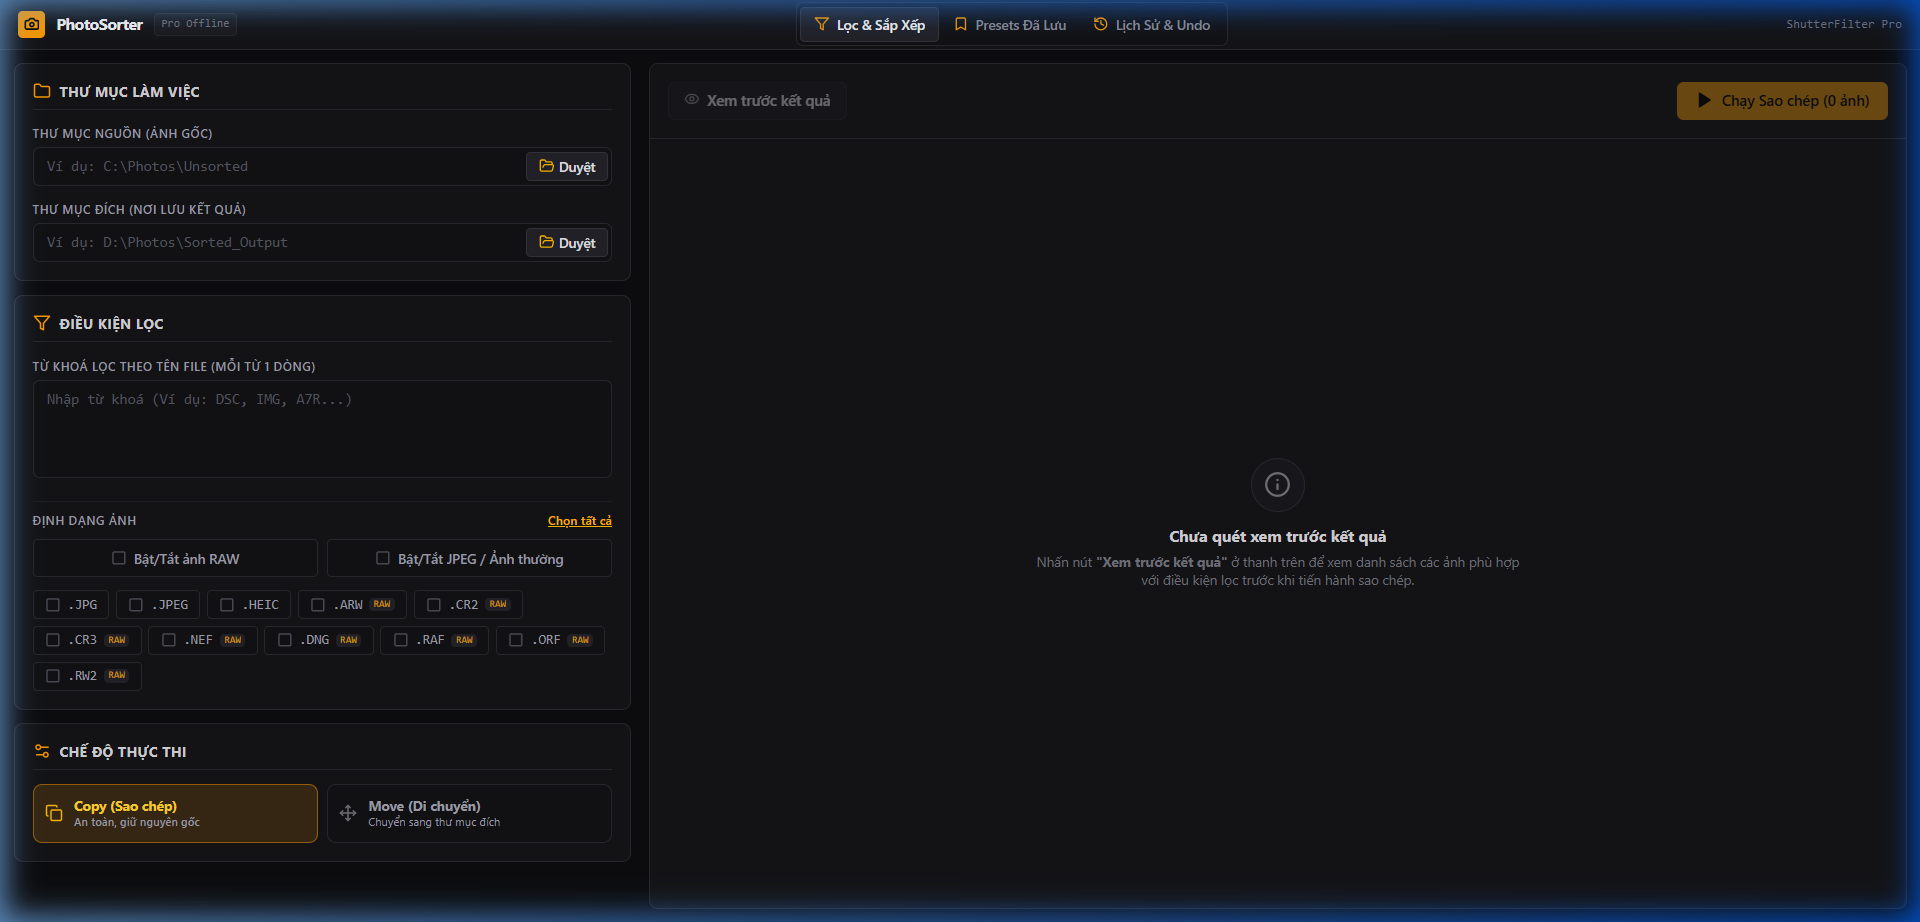
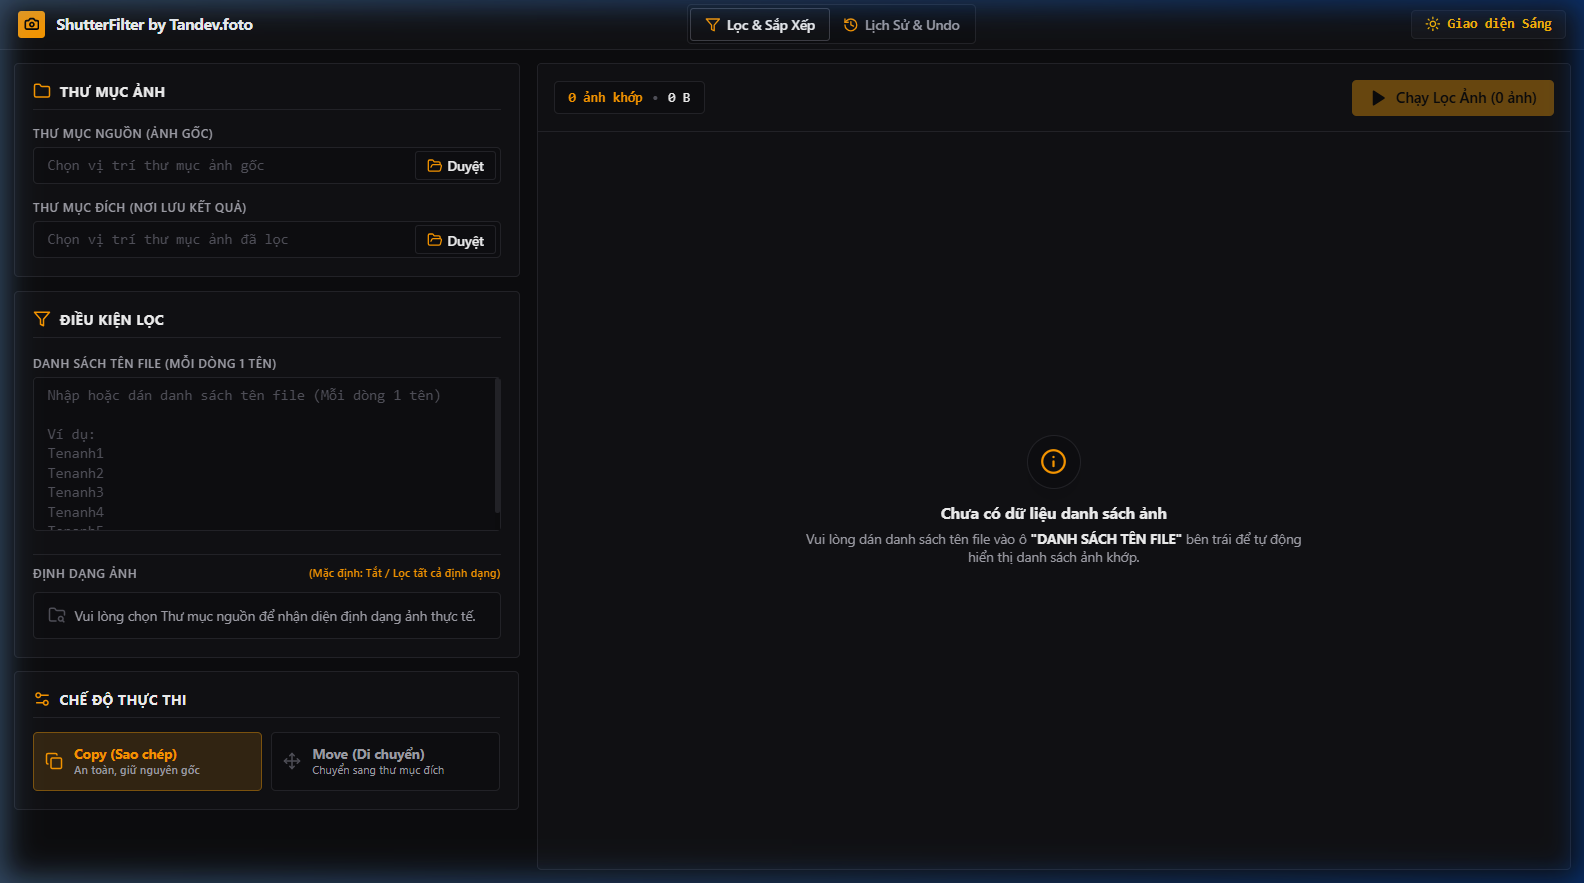
docs: update README with fresh screenshots of Dark and Light mode UI from running app

diff --git a/README.md b/README.md
@@ -9,18 +9,21 @@
 
 ---
 
-## 📐 Giao Diện Trực Quan (Interface Overview)
+## 📐 Giao Diện Trực Quan Cập Nhật Mới Nhất (Latest UI Preview)
 
-### 1. Giao Diện Lọc & Tự Động Khớp Danh Sách Ảnh (Dark Mode)
-![Main Workspace](docs/images/dark_mode_ui.png)
+### 1. Giao Diện Tối (Studio Dark Mode 🌙)
+![Dark Mode Workspace](docs/images/dark_mode_ui.png)
 
-### 2. Xem Trước Danh Sách Ảnh Khớp Chi Tiết & Khung Tìm Kiếm
-![Filter Preview](docs/images/filter_preview.png)
+### 2. Giao Diện Sáng (Clean Studio Light Mode ☀)
+![Light Mode Workspace](docs/images/light_mode_ui.png)
 
-### 3. Tiến Trình Thực Thi Realtime & Mở Thư Mục / Import Photoshop
+### 3. Xem Trước Danh Sách Ảnh Khớp Chi Tiết & Bộ Lọc Đuôi Ảnh (Chế độ Tắt Mờ `[]` Mặc Định)
+![Filter Matching Preview](docs/images/filter_preview.png)
+
+### 4. Cửa Sổ Thực Thi Realtime & Tích Hợp Adobe Photoshop
 ![Execution Progress Modal](docs/images/progress_modal.png)
 
-### 4. Quản Lý Lịch Sử Lọc & Khôi Phục (Undo 1-Click)
+### 5. Quản Lý Lịch Sử Lọc & Khôi Phục (Undo 1-Click)
 ![History and Undo View](docs/images/history_undo.png)
 
 ---
@@ -44,7 +47,7 @@ Trong quy trình làm việc của nhiếp ảnh gia và studio chụp ảnh chu
 | **Tốc độ phản hồi UI** | 60FPS mượt mà (Tăng tốc GPU, Phân trang 50/100/250/500 dòng) |
 | **Định dạng hỗ trợ** | RAW (`.arw`, `.cr2`, `.cr3`, `.nef`, `.dng`, `.raf`, `.orf`, `.rw2`) + Bitmap (`.jpg`, `.jpeg`, `.png`, `.webp`, `.tiff`, `.bmp`) |
 | **Lọc loại trừ Video** | Tự động loại bỏ tệp video (`.mp4`, `.mov`, `.avi`, `.mkv`) khỏi tiến trình |
-| **Chế độ giao diện** | Chuyển đổi linh hoạt **Dark Mode 🌙** (Studio Dark) & **Light Mode ☀** (Studio Light) |
+| **Chế độ giao diện** | Chuyển đổi linh hoạt **Dark Mode 🌙** (Studio Dark) & **Light Mode ☀** (Studio Light) ngay tại thanh Header |
 | **Gói thực thi** | Single-File Executable `ShutterFilter_SingleFile.exe` (~116MB, không cần cài đặt) |
 
 ---
